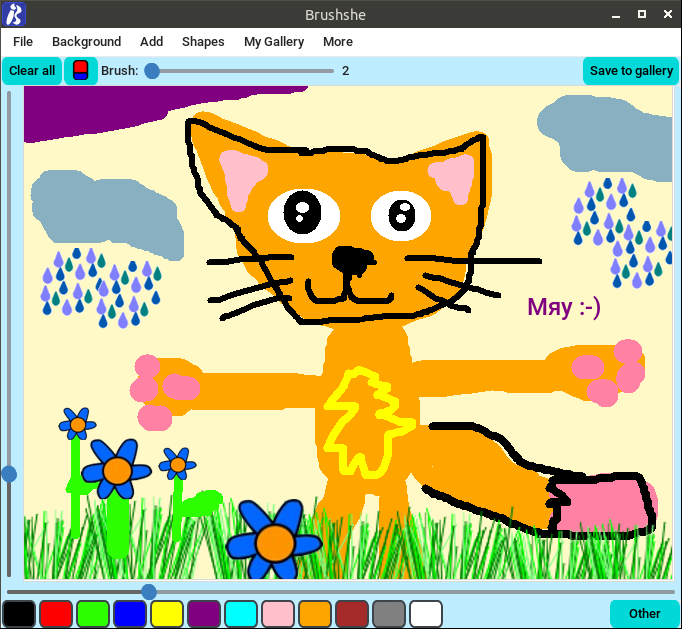
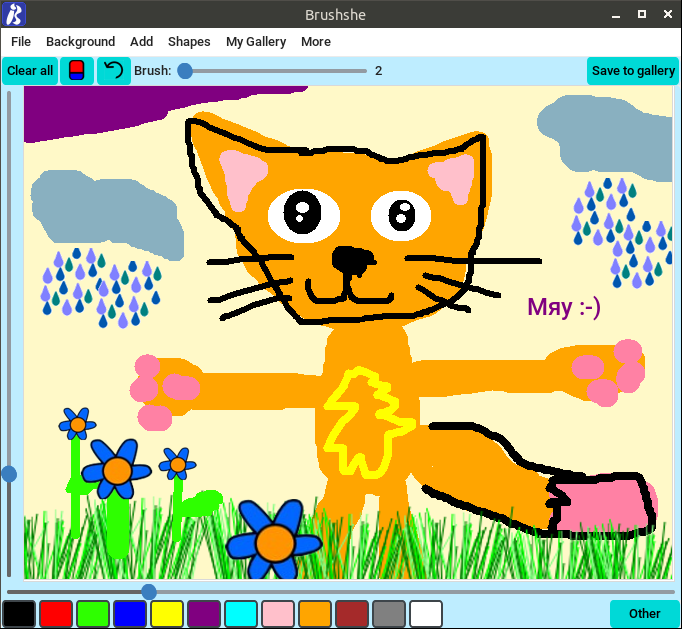
v0.15
Added undo function, a little change in button style

diff --git a/Brushshe/brushshe.py b/Brushshe/brushshe.py
@@ -183,6 +183,14 @@ class Brushshe(ctk.CTk):
         eraser = ctk.CTkButton(tools_frame, text=None, width=35, image=eraser_icon, command=self.eraser)
         eraser.pack(side=ctk.LEFT, padx=1)
 
+        undo_icon = ctk.CTkImage(
+            light_image=Image.open(path.join(PATH, "icons/undo_light.png")),
+            dark_image=Image.open(path.join(PATH, "icons/undo_dark.png")),
+            size=(20, 20),
+        )
+        undo_button = ctk.CTkButton(tools_frame, text=None, width=35, image=undo_icon, command=self.undo)
+        undo_button.pack(side=ctk.LEFT, padx=1)
+
         self.tool_label = ctk.CTkLabel(tools_frame, text=self._("Brush:"))
         self.tool_label.pack(side=ctk.LEFT, padx=1)
 
@@ -274,6 +282,9 @@ class Brushshe(ctk.CTk):
         self.canvas.configure(cursor="pencil")
         self.current_tool = None
 
+        self.undo_stack = []
+        self.current_items = []
+
         # Defining the Gallery Folder Path
         if name == "nt":  # For Windows
             images_folder = Path(environ["USERPROFILE"]) / "Pictures"
@@ -307,7 +318,7 @@ class Brushshe(ctk.CTk):
 
     def paint(self, cur):
         if self.prev_x and self.prev_y:
-            self.canvas.create_line(
+            item = self.canvas.create_line(
                 self.prev_x,
                 self.prev_y,
                 cur.x,
@@ -317,9 +328,14 @@ class Brushshe(ctk.CTk):
                 smooth=True,
                 capstyle=ctk.ROUND,
             )
+            self.current_items.append(item)
         self.prev_x, self.prev_y = cur.x, cur.y
 
     def stop_paint(self, cur):
+        if self.current_items:
+            self.undo_stack.append(self.current_items)
+            self.current_items = []
+            self.optimize_undo_stack()
         self.prev_x, self.prev_y = (None, None)
 
     def pipette(self, event):
@@ -375,6 +391,7 @@ class Brushshe(ctk.CTk):
                 self.photo = ImageTk.PhotoImage(self.image)
                 self.canvas.create_image(0, 0, anchor=ctk.NW, image=self.photo)
                 self.update_canvas_size()
+                self.undo_stack = []
             except Exception as e:
                 CTkMessagebox(
                     title=self._("Oh, unfortunately, it happened"),
@@ -410,8 +427,6 @@ class Brushshe(ctk.CTk):
 
     def change_bg(self, new_color):
         self.canvas.configure(bg=new_color)
-        if self.tool_label.cget("text") == self._("Eraser:"):
-            self.eraser()
 
     def other_bg_color(self):
         pick_color = AskColor(title=self._("Choose a different background color"))
@@ -479,7 +494,11 @@ class Brushshe(ctk.CTk):
             self.canvas.configure(cursor="")
 
     def add_sticker(self, event):  # Add a sticker
-        self.canvas.create_image(event.x, event.y, anchor="center", image=self.current_sticker)
+        item = self.canvas.create_image(event.x, event.y, anchor="center", image=self.current_sticker)
+        self.current_items.append(item)
+        self.undo_stack.append(self.current_items)
+        self.current_items = []
+        self.optimize_undo_stack()
         self.canvas.unbind("<Button-1>")
         self.canvas.configure(cursor="pencil")
 
@@ -504,7 +523,11 @@ class Brushshe(ctk.CTk):
 
     def add_text(self, event, text):  # Add text
         self.tk_font = ctk.CTkFont(family=self.tk_font["family"], size=self.font_size)
-        self.canvas.create_text(event.x, event.y, text=text, fill=self.color, font=self.tk_font)
+        item = self.canvas.create_text(event.x, event.y, text=text, fill=self.color, font=self.tk_font)
+        self.current_items.append(item)
+        self.undo_stack.append(self.current_items)
+        self.current_items = []
+        self.optimize_undo_stack()
         self.canvas.unbind("<Button-1>")
         self.canvas.configure(cursor="pencil")
 
@@ -540,7 +563,11 @@ class Brushshe(ctk.CTk):
             selected_frame = frames[index]
             resized_image = selected_frame.resize((self.canvas.winfo_width(), self.canvas.winfo_height()))
             self.frame_image = ImageTk.PhotoImage(resized_image)
-            self.canvas.create_image(0, 0, anchor="nw", image=self.frame_image)
+            item = self.canvas.create_image(0, 0, anchor="nw", image=self.frame_image)
+            self.current_items.append(item)
+            self.undo_stack.append(self.current_items)
+            self.current_items = []
+            self.optimize_undo_stack()
 
         frames_win = ctk.CTkToplevel(app)
         frames_win.title(self._("Frames"))
@@ -584,7 +611,7 @@ class Brushshe(ctk.CTk):
             self.shape_start_x = event.x
             self.shape_start_y = event.y
             if self.shape == "rectangle":
-                self.shape_id = self.canvas.create_rectangle(
+                item = self.shape_id = self.canvas.create_rectangle(
                     self.shape_start_x,
                     self.shape_start_y,
                     self.shape_start_x,
@@ -593,7 +620,7 @@ class Brushshe(ctk.CTk):
                     outline=self.color,
                 )
             elif self.shape == "oval":
-                self.shape_id = self.canvas.create_oval(
+                item = self.shape_id = self.canvas.create_oval(
                     self.shape_start_x,
                     self.shape_start_y,
                     self.shape_start_x,
@@ -602,7 +629,7 @@ class Brushshe(ctk.CTk):
                     outline=self.color,
                 )
             elif self.shape == "line":
-                self.shape_id = self.canvas.create_line(
+                item = self.shape_id = self.canvas.create_line(
                     self.shape_start_x,
                     self.shape_start_y,
                     self.shape_start_x,
@@ -612,7 +639,7 @@ class Brushshe(ctk.CTk):
                     capstyle=ctk.ROUND,
                 )
             elif self.shape == "arrow":
-                self.shape_id = self.canvas.create_line(
+                item = self.shape_id = self.canvas.create_line(
                     self.shape_start_x,
                     self.shape_start_y,
                     self.shape_start_x,
@@ -623,7 +650,7 @@ class Brushshe(ctk.CTk):
                     arrowshape=(self.brush_size * 2, self.brush_size * 2, self.brush_size * 2),
                 )
             elif self.shape == "double ended arrow":
-                self.shape_id = self.canvas.create_line(
+                item = self.shape_id = self.canvas.create_line(
                     self.shape_start_x,
                     self.shape_start_y,
                     self.shape_start_x,
@@ -634,7 +661,7 @@ class Brushshe(ctk.CTk):
                     arrowshape=(self.brush_size * 2, self.brush_size * 2, self.brush_size * 2),
                 )
             elif self.shape == "fill rectangle":
-                self.shape_id = self.canvas.create_rectangle(
+                item = self.shape_id = self.canvas.create_rectangle(
                     self.shape_start_x,
                     self.shape_start_y,
                     self.shape_start_x,
@@ -644,7 +671,7 @@ class Brushshe(ctk.CTk):
                     fill=self.color,
                 )
             elif self.shape == "fill oval":
-                self.shape_id = self.canvas.create_oval(
+                item = self.shape_id = self.canvas.create_oval(
                     self.shape_start_x,
                     self.shape_start_y,
                     self.shape_start_x,
@@ -654,7 +681,7 @@ class Brushshe(ctk.CTk):
                     fill=self.color,
                 )
             elif self.shape == "fill triangle":
-                self.shape_id = self.canvas.create_polygon(
+                item = self.shape_id = self.canvas.create_polygon(
                     self.shape_start_x,
                     self.shape_start_y,
                     self.shape_start_x,
@@ -666,7 +693,7 @@ class Brushshe(ctk.CTk):
                     fill=self.color,
                 )
             elif self.shape == "fill diamond":
-                self.shape_id = self.canvas.create_polygon(
+                item = self.shape_id = self.canvas.create_polygon(
                     self.shape_start_x,
                     self.shape_start_y,
                     self.shape_start_x,
@@ -679,6 +706,9 @@ class Brushshe(ctk.CTk):
                     outline=self.color,
                     fill=self.color,
                 )
+            self.current_items.append(item)
+            self.undo_stack.append(self.current_items)
+            self.current_items = []
 
         def draw_shape(event):
             if self.shape == "fill triangle":
@@ -725,11 +755,14 @@ class Brushshe(ctk.CTk):
 
         self.after(100)  # A little delay, otherwise it doesn't work
 
+        self.optimize_undo_stack()
+
     def effects(self):
         def remove_all_effects():
             canvas_img_tk = ImageTk.PhotoImage(canvas_img)
             self.canvas.create_image(0, 0, anchor="nw", image=canvas_img_tk)
             self.canvas.image = canvas_img_tk
+            self.undo_stack = []
 
         def blur():
             radius = blur_slider.get()
@@ -737,6 +770,7 @@ class Brushshe(ctk.CTk):
             blurred_img_tk = ImageTk.PhotoImage(blurred_img)
             self.canvas.create_image(0, 0, anchor="nw", image=blurred_img_tk)
             self.canvas.image = blurred_img_tk
+            self.undo_stack = []
 
         def detail():
             factor = detail_slider.get()
@@ -745,18 +779,21 @@ class Brushshe(ctk.CTk):
             detailed_img_tk = ImageTk.PhotoImage(detailed_img)
             self.canvas.create_image(0, 0, anchor="nw", image=detailed_img_tk)
             self.canvas.image = detailed_img_tk
+            self.undo_stack = []
 
         def contour():
             contoured_img = canvas_img.filter(ImageFilter.CONTOUR)
             contoured_img_tk = ImageTk.PhotoImage(contoured_img)
             self.canvas.create_image(0, 0, anchor="nw", image=contoured_img_tk)
             self.canvas.image = contoured_img_tk
+            self.undo_stack = []
 
         def grayscale():
             grayscale_img = ImageOps.grayscale(canvas_img)
             grayscale_img_tk = ImageTk.PhotoImage(grayscale_img)
             self.canvas.create_image(0, 0, anchor="nw", image=grayscale_img_tk)
             self.canvas.image = grayscale_img_tk
+            self.undo_stack = []
 
         effects_win = ctk.CTkToplevel(app)
         effects_win.title(self._("Effects"))
@@ -861,6 +898,7 @@ class Brushshe(ctk.CTk):
                 self.photo = ImageTk.PhotoImage(self.image)
                 self.canvas.create_image(0, 0, anchor=ctk.NW, image=self.photo)
                 self.update_canvas_size()
+                self.undo_stack = []
 
         is_image_found = False
 
@@ -897,7 +935,7 @@ class Brushshe(ctk.CTk):
         )
         about_msg = CTkMessagebox(
             title=self._("About program"),
-            message=about_text + "v0.14",
+            message=about_text + "v0.15",
             icon=path.join(PATH, "icons/brucklin.png"),
             icon_size=(150, 191),
             option_1="OK",
@@ -910,6 +948,7 @@ class Brushshe(ctk.CTk):
 
     def clean_all(self):
         self.canvas.delete("all")
+        self.undo_stack = []
 
     def change_brush_size(self, size):
         self.brush_size = int(size)
@@ -920,6 +959,12 @@ class Brushshe(ctk.CTk):
         self.tool_label.configure(text=self._("Eraser:"))
         self.canvas.configure(cursor="plus")
         self.current_tool = "eraser"
+
+    def undo(self):
+        if self.undo_stack:
+            items = self.undo_stack.pop()
+            for i in items:
+                self.canvas.delete(i)
 
     def save_image(self):
         # Canvas positions
@@ -972,6 +1017,21 @@ class Brushshe(ctk.CTk):
         if self.current_tool == "eraser":
             self.canvas.configure(cursor="pencil")
             self.current_tool = None
+
+    def optimize_undo_stack(self):
+        def count_elements(lst):
+            count = 0
+            for item in lst:
+                if isinstance(item, list):
+                    count += count_elements(item)
+                else:
+                    count += 1
+                if count >= 5000:
+                    return count
+            return count
+
+        if count_elements(self.undo_stack) >= 5000:
+            self.undo_stack.clear()
 
 
 app = Brushshe()

diff --git a/README.md b/README.md
@@ -1,5 +1,7 @@
 # Brushshe - painting app
 
+![Static Badge](https://img.shields.io/badge/Tested_on-Windows%2C_Linux-orange)
+
 <p align="center">
   <img src="https://raw.githubusercontent.com/limafresh/Brushshe/refs/heads/main/Brushshe/icons/logo.svg" alt="logo" width="100" height="100">
 </p>
@@ -28,6 +30,7 @@ You can open a picture from a file.
 You can choose a color, change the brush thickness, and paint. You can change canvas size.
 ### Export
 You can export picture to your PC in different formats (PNG, JPG, GIF, BMP, TIFF, WEBP, ICO, PPM, PGM, PBM).
+### Undo
 ### Eraser
 Removing excess with an eraser.
 ### Pipette
